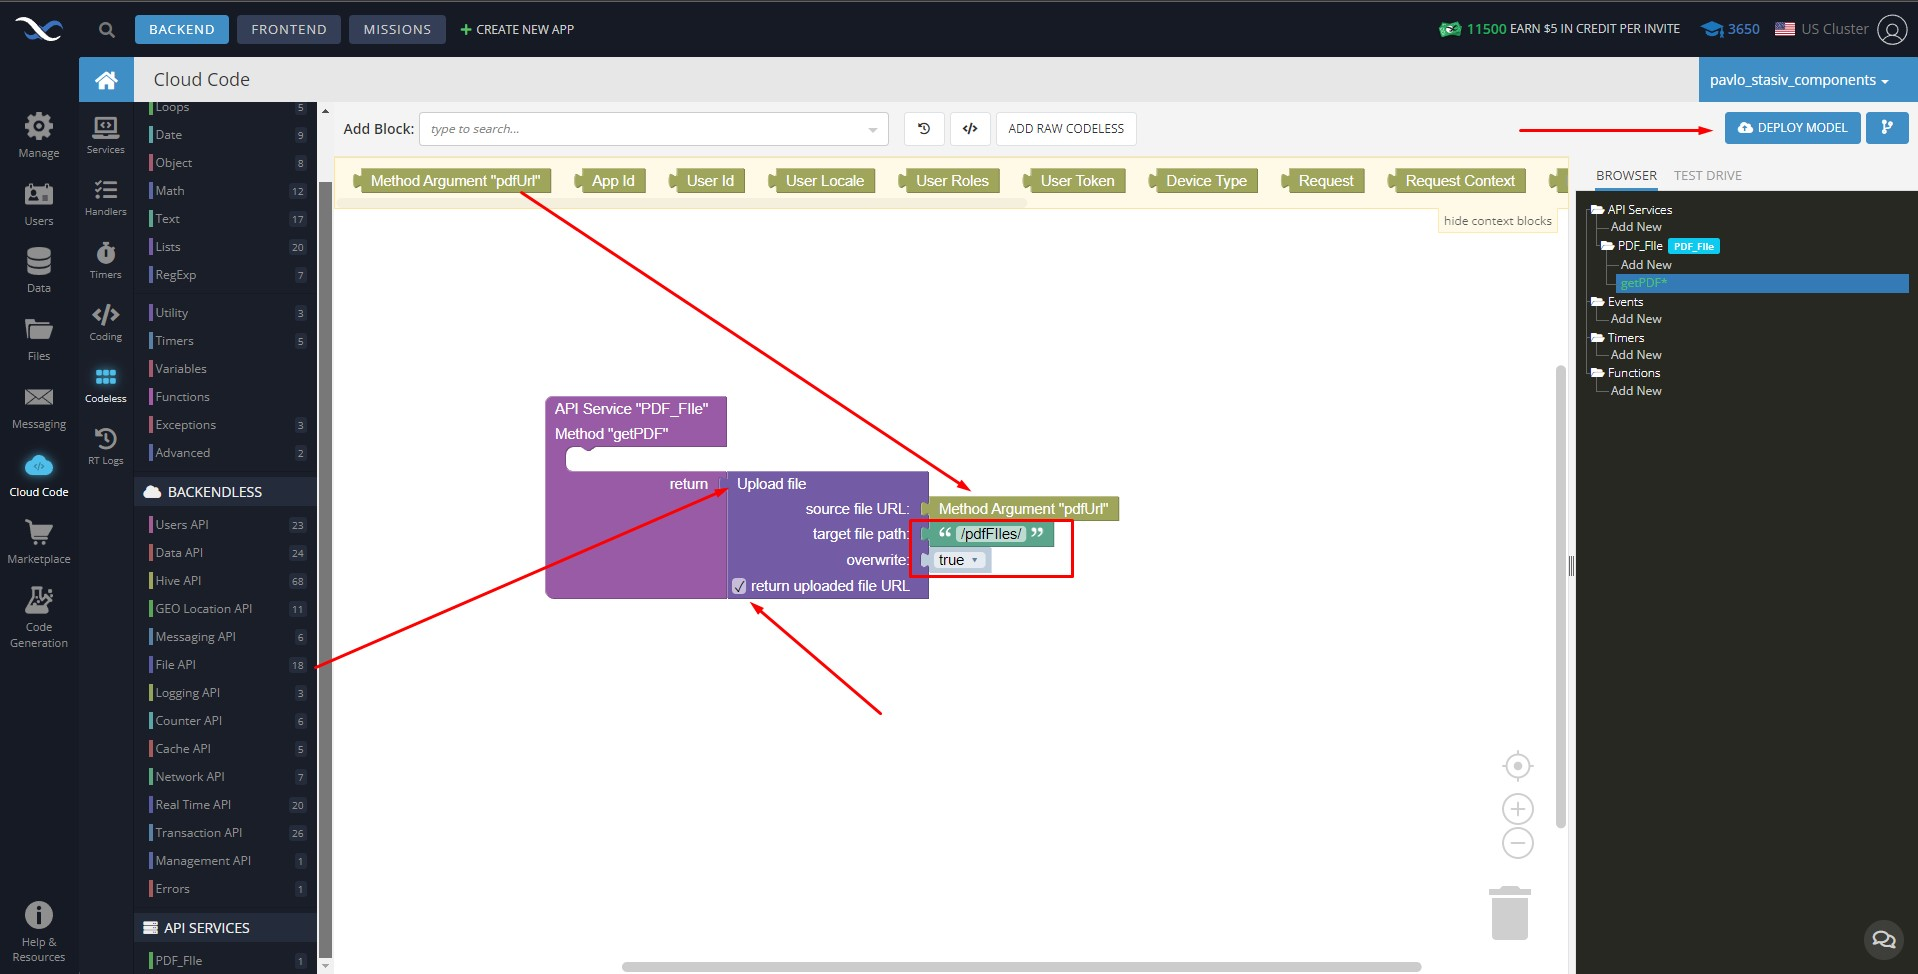
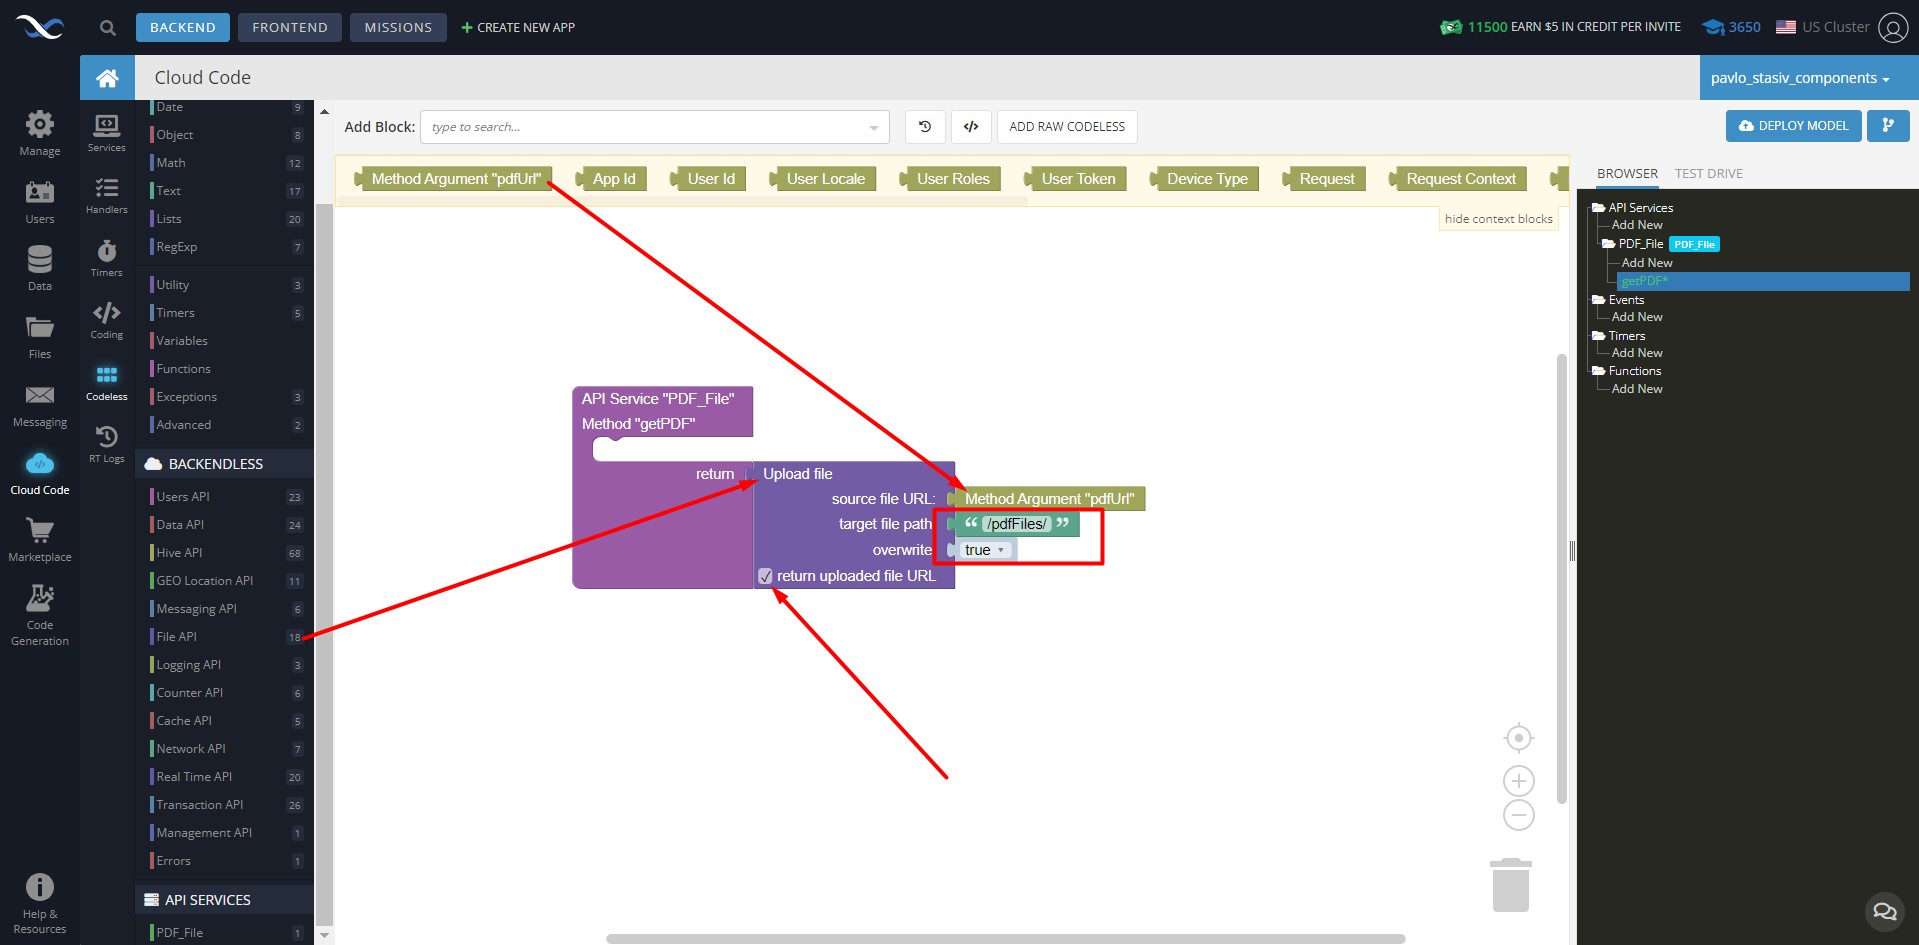
corrected example images add deploy-method and create-folder images

diff --git a/components/bl-pdf-viewer/README.md b/components/bl-pdf-viewer/README.md
@@ -156,8 +156,9 @@ After uploading the file to the user interface, it Can be removed from our file 
     ![Create method](./example-images/add-get-pdf-method.jpg)
 
 3. Add method logic. The `target file path` is the path to the root directory in our file system, which contains the directory `pdfFiles` that you need to create yourself.
-
+    ![Create folder](./example-images/create-folder.jpg)
     ![Add logic to method](./example-images/add-logic-for-get-pdf-method.jpg)
+    ![Deploy method](./example-images/deploy-method.jpg)
 
 4. Now we need to add logic to the `PDF URL Logic` handler in the component. In the property `pdfName` we set the file name of pdf so we can delete the file when we don't need it.
 
